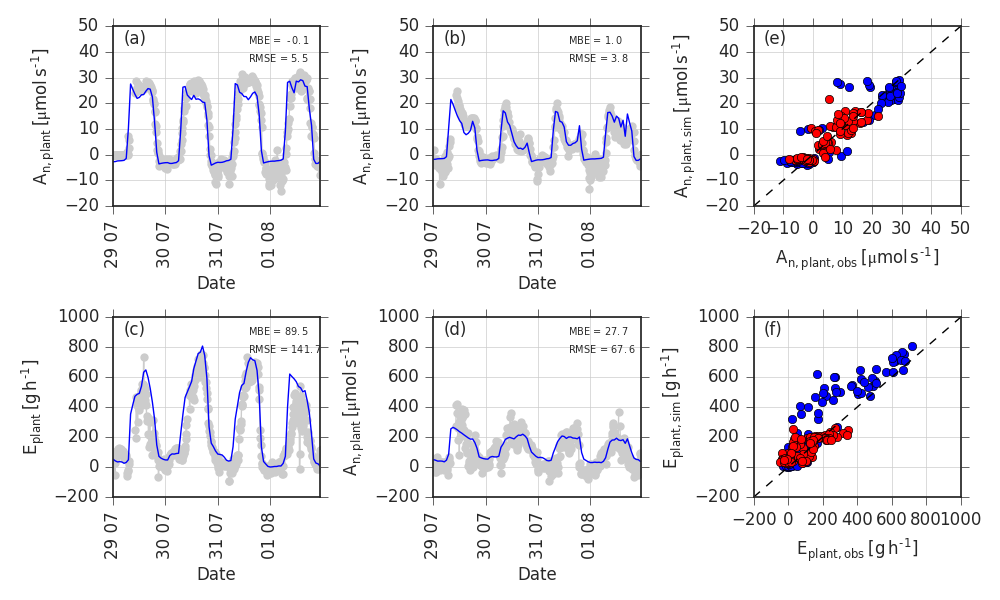
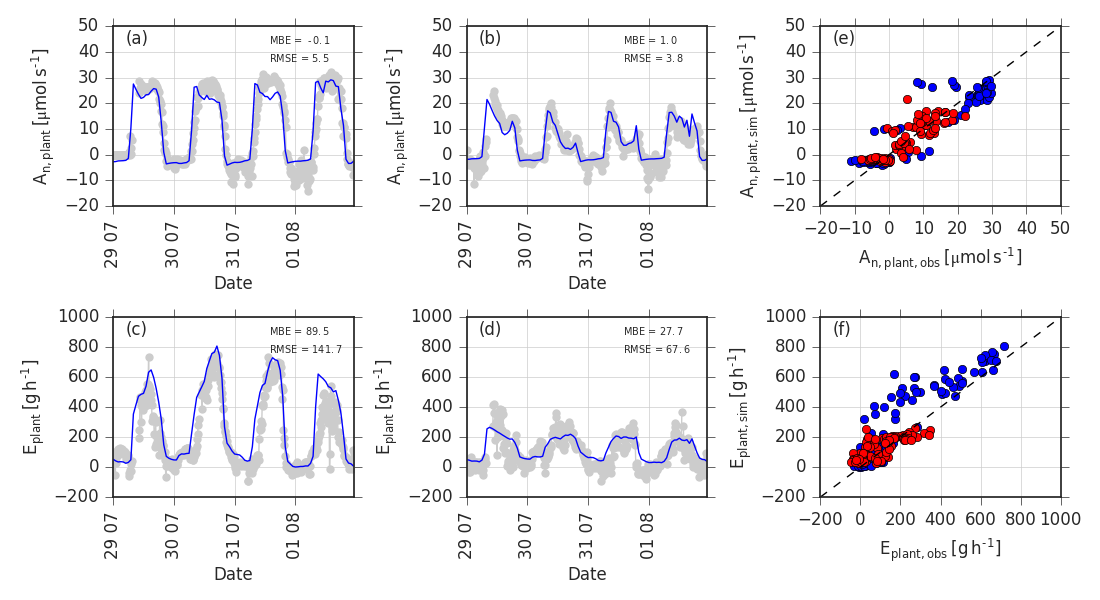
corrected legend

diff --git a/example/figs/paper_figs.py b/example/figs/paper_figs.py
@@ -365,7 +365,7 @@ def plot_figure_13():
     end_date = datetime(2009, 8, 1, 23, 00, 0, )
     datet = pd.date_range(beg_date, end_date, freq='H')
 
-    fig, axs = pyplot.subplots(nrows=2, ncols=3, figsize=(10, 6))
+    fig, axs = pyplot.subplots(nrows=2, ncols=3, figsize=(11, 6))
     [ax.grid() for ax in axs.flatten()]
 
     for iax, training in enumerate(('vsp_ww_grapevine', 'vsp_ws_grapevine')):
@@ -458,7 +458,7 @@ def plot_figure_13():
         xlim=(beg_date, end_date), ylim=(-20, 50))
     axs[1, 1].set(
         xlabel='Date',
-        ylabel='$\mathregular{A_{n, plant}\/[\mu mol\/s^{-1}]}$',
+        ylabel='$\mathregular{E_{plant}\/[g\/h^{-1}]}$',
         xlim=(beg_date, end_date), ylim=(-200, 1000))
     axs[0, 2].set(
         xlabel='$\mathregular{A_{n, plant, obs}\/[\mu mol\/s^{-1}]}$',
@@ -771,12 +771,12 @@ if __name__ == '__main__':
 
     example_pth = Path(__file__).parents[2] / 'example'
 
-    plot_figure_9()
-    plot_figure_10()
-    plot_figure_11()
-    plot_figure_12()
+    # plot_figure_9()
+    # plot_figure_10()
+    # plot_figure_11()
+    # plot_figure_12()
     plot_figure_13()
-    plot_figure_14()
-    plot_figure_15()
-    write_table_1()
+    # plot_figure_14()
+    # plot_figure_15()
+    # write_table_1()
     # # plot_meteo_vsp()
